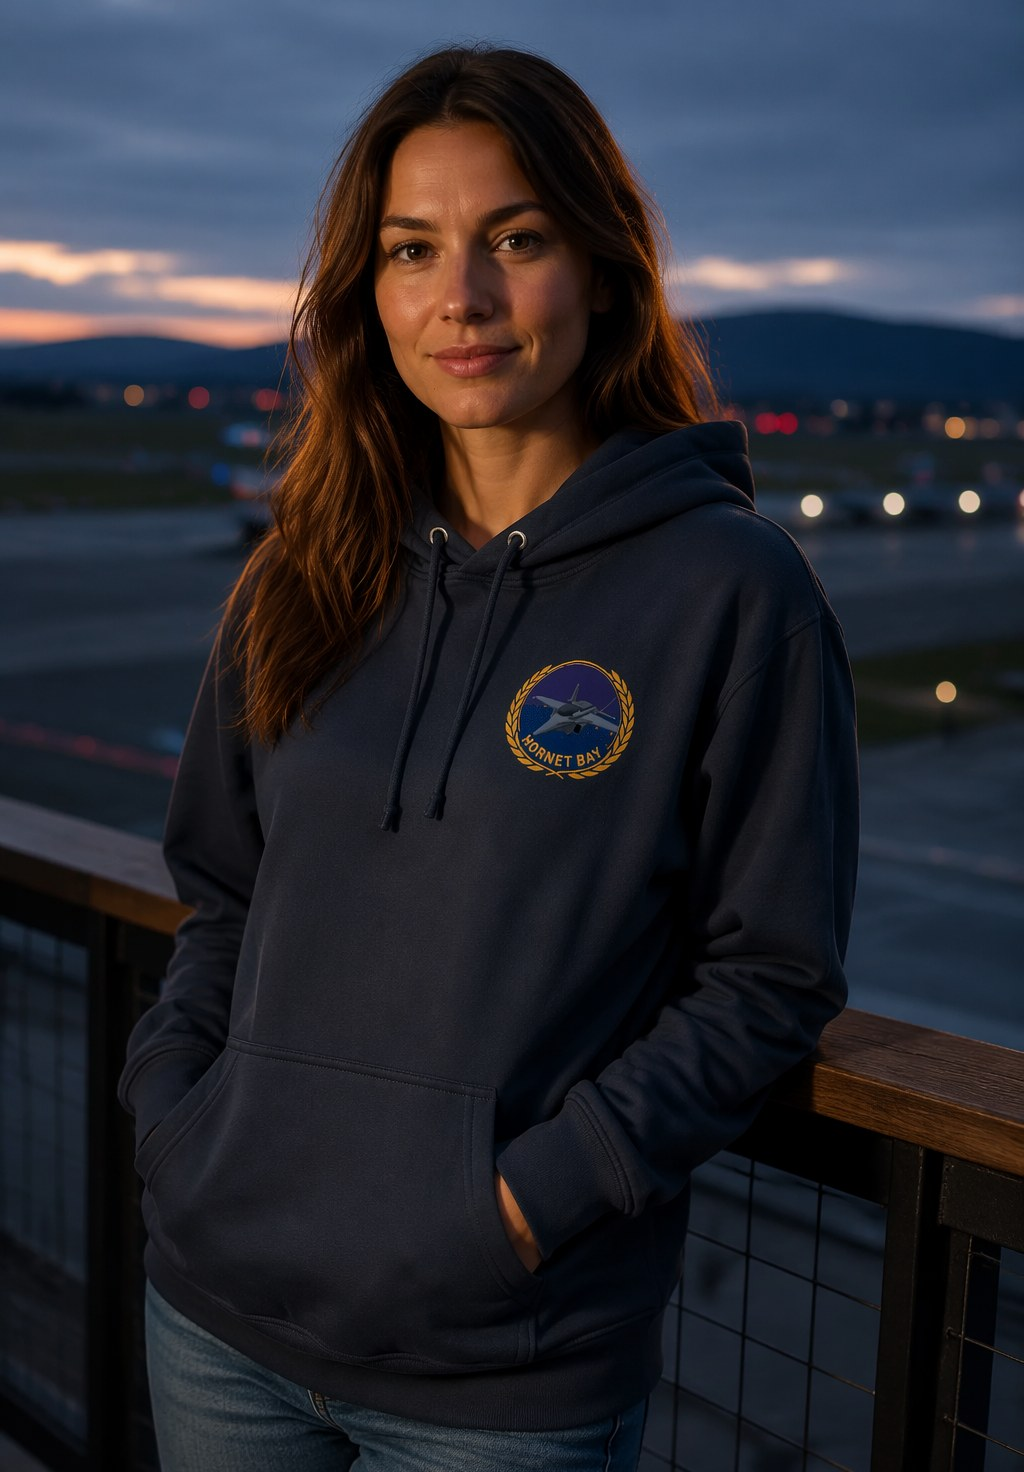
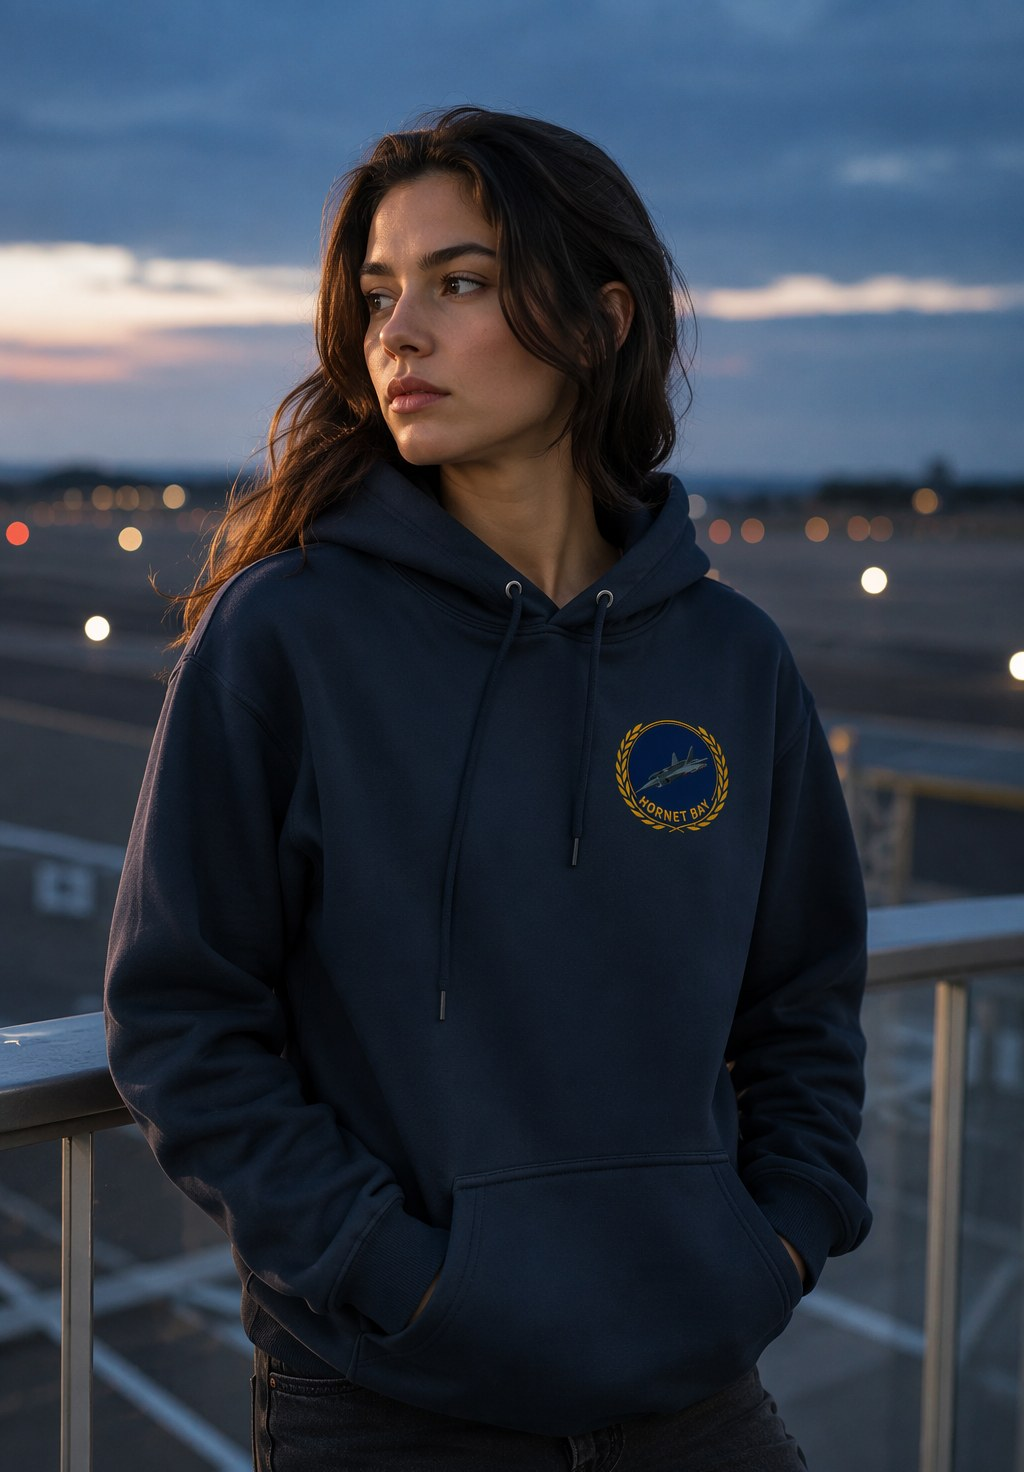
Whole-Hornet laurel merch swap + refreshed lookbook models + journal

diff --git a/blog/whole-hornet-merch/index.html b/blog/whole-hornet-merch/index.html
@@ -1,0 +1,134 @@
+<!DOCTYPE html>
+<html lang="en">
+<head>
+<meta charset="utf-8">
+<meta name="viewport" content="width=device-width, initial-scale=1">
+<title>The whole Hornet joins The Exchange — HORNET BAY</title>
+<meta name="description" content="Hot on the heels of the emblem rebuild: the whole-Hornet laurel is now flying on all four Squadron Laurel products at The Exchange — mug, kiss-cut…">
+<link rel="canonical" href="https://hornetbay.com/blog/whole-hornet-merch">
+<meta property="og:type" content="article">
+<meta property="og:site_name" content="Hornet Bay">
+<meta property="og:url" content="https://hornetbay.com/blog/whole-hornet-merch">
+<meta property="og:title" content="The whole Hornet joins The Exchange — HORNET BAY">
+<meta property="og:description" content="Hot on the heels of the emblem rebuild: the whole-Hornet laurel is now flying on all four Squadron Laurel products at The Exchange — mug, kiss-cut…">
+<meta property="og:image" content="https://hornetbay.com/shots/whole-hornet-laurel.png">
+<meta name="twitter:card" content="summary_large_image">
+<meta name="twitter:site" content="@hornetbay">
+<meta name="twitter:title" content="The whole Hornet joins The Exchange — HORNET BAY">
+<meta name="twitter:description" content="Hot on the heels of the emblem rebuild: the whole-Hornet laurel is now flying on all four Squadron Laurel products at The Exchange — mug, kiss-cut…">
+<meta name="twitter:image" content="https://hornetbay.com/shots/whole-hornet-laurel.png">
+<link rel="alternate" type="application/rss+xml" title="Hornet Bay — New Features &amp; Bug Fixes" href="https://hornetbay.com/rss.xml">
+<style>
+  :root {
+    --amber: #ffb437;
+    --amber-hi: #ffd75e;
+    --ink: #c8d4e8;
+    --ink-dim: #7f90b0;
+    --link: #5f86b8;
+    --line: #26355a;
+    --card: #0d1428;
+  }
+  * { box-sizing: border-box; margin: 0; padding: 0; }
+  body {
+    background: #070b18;
+    color: var(--ink);
+    font-family: "Courier New", ui-monospace, monospace;
+    line-height: 1.55;
+    padding: 0 16px 64px;
+  }
+  a { color: var(--link); text-decoration: none; }
+  a:hover { color: var(--amber); }
+  header {
+    max-width: 860px; margin: 0 auto; padding: 36px 0 8px;
+    border-bottom: 2px solid var(--line);
+  }
+  .brand { font-size: 30px; font-weight: bold; letter-spacing: 3px; color: #fff; }
+  .brand span { color: var(--amber); }
+  .kicker {
+    margin-top: 6px; font-size: 12px; letter-spacing: 4px; color: var(--amber);
+    text-shadow: 0 0 10px #7a3800;
+  }
+  .blurb { margin: 14px 0 10px; font-size: 13px; color: var(--ink-dim); }
+  .back { display: inline-block; margin: 6px 0 14px; font-size: 12px; letter-spacing: 2px; }
+  main { max-width: 860px; margin: 0 auto; }
+  article {
+    border-bottom: 1px solid var(--line);
+    padding: 28px 0;
+  }
+  .date {
+    font-size: 12px; letter-spacing: 2px; color: var(--ink-dim);
+  }
+  h2 {
+    margin: 4px 0 10px; font-size: 23px; letter-spacing: 1px; color: var(--amber-hi);
+  }
+  .shot {
+    display: block; margin: 12px 0; border: 1px solid var(--line);
+    background: var(--card);
+  }
+  .shot img { display: block; width: 100%; height: auto; image-rendering: auto; }
+  p { font-size: 16.5px; max-width: 100%; }
+  .hash {
+    display: inline-block; margin-left: 8px; font-size: 11px; color: var(--ink-dim);
+    border: 1px solid var(--line); padding: 0 6px; vertical-align: 2px;
+  }
+
+  .meta { display: flex; align-items: center; gap: 10px; flex-wrap: wrap; }
+  .meta time { font-size: 12px; letter-spacing: 2px; color: var(--ink-dim); }
+  .tags { display: inline-flex; gap: 6px; }
+  .tag {
+    font-size: 10px; letter-spacing: 1px; color: var(--amber);
+    border: 1px solid #7a5a20; padding: 0 5px; border-radius: 2px;
+  }
+  h2 a.title-link { color: inherit; text-decoration: none; }
+  h2 a.title-link:hover { color: var(--amber); }
+  h2 a.title-link::after { content: " \1F517"; font-size: 12px; opacity: 0; transition: opacity .15s; }
+  h2 a.title-link:hover::after { opacity: 0.8; }
+  article:target { background: #101a30; outline: 1px solid #2a3a5f; padding: 18px 14px; margin: 0 -14px; }
+  .rss-link { float: right; font-size: 11px; letter-spacing: 2px; }
+  footer {
+    max-width: 860px; margin: 28px auto 0; font-size: 12px; color: var(--ink-dim);
+    letter-spacing: 1px;
+  }
+</style>
+<script type="application/ld+json">
+{
+  "@context": "https://schema.org",
+  "@type": "BlogPosting",
+  "headline": "The whole Hornet joins The Exchange PENDING",
+  "datePublished": "2026-07-25",
+  "url": "https://hornetbay.com/blog/whole-hornet-merch",
+  "wordCount": 47,
+  "author": {
+    "@type": "Organization",
+    "name": "Hornet Bay",
+    "url": "https://hornetbay.com"
+  },
+  "image": "https://hornetbay.com/shots/whole-hornet-laurel.png",
+  "isPartOf": {
+    "@type": "Blog",
+    "name": "Hornet Bay \u2014 New Features & Bug Fixes",
+    "url": "https://hornetbay.com/blog"
+  }
+}
+</script>
+</head>
+<body>
+<header>
+  <div class="brand">HORNET <span>BAY</span></div>
+  <div class="kicker">NEW FEATURES &amp; BUG FIXES</div>
+  <a class="back" href="/blog">&larr; ALL ENTRIES</a>
+</header>
+<main>
+<article id="whole-hornet-merch">
+    <div class="meta"><time datetime="2026-07-25">2026-07-25</time><span class="tags"><span class="tag">FEATURE</span><span class="tag">BRAND</span></span></div>
+    <h2><a class="title-link" href="/blog/whole-hornet-merch">The whole Hornet joins The Exchange</a> <span class="hash">PENDING</span></h2>
+    <a class="shot" href="/shots/whole-hornet-laurel.png"><img src="/shots/whole-hornet-laurel.png" alt="The Squadron Laurel roundel with the complete Hornet, as printed on the Exchange collection" loading="lazy"></a>
+    <p>Hot on the heels of the emblem rebuild: the whole-Hornet laurel is now flying on all four Squadron Laurel products at <a href="/store">The Exchange</a> &mdash; mug, kiss-cut sticker, left-chest tee, and left-chest hoodie. The clipped-nose editions have been retired to the archives; same prices, same placements, complete airframe.</p>
+    <p>The lookbook got a fresh sitting too &mdash; new concept photography for the tee and the hoodie, roundel on the left chest where a patch belongs.</p>
+  </article>
+</main>
+<footer>
+  HORNET BAY &mdash; a tribute rebuild of the 1988 Amiga classic F/A-18 INTERCEPTOR &middot; <a href="/">FLY NOW</a> &middot; <a href="https://x.com/hornetbay" target="_blank" rel="noopener">@hornetbay</a> &middot; <a href="https://www.facebook.com/people/Hornet-Bay/61592078535997/" target="_blank" rel="noopener">FACEBOOK</a> &middot; <a href="https://www.instagram.com/hornet_bay/" target="_blank" rel="noopener">INSTAGRAM</a>
+</footer>
+</body>
+</html>

diff --git a/blog/index.html b/blog/index.html
@@ -100,6 +100,19 @@
   "blogPost": [
     {
       "@type": "BlogPosting",
+      "headline": "The whole Hornet joins The Exchange PENDING",
+      "datePublished": "2026-07-25",
+      "url": "https://hornetbay.com/blog/whole-hornet-merch",
+      "wordCount": 47,
+      "author": {
+        "@type": "Organization",
+        "name": "Hornet Bay",
+        "url": "https://hornetbay.com"
+      },
+      "image": "https://hornetbay.com/shots/whole-hornet-laurel.png"
+    },
+    {
+      "@type": "BlogPosting",
       "headline": "The whole Hornet 4c83f87",
       "datePublished": "2026-07-25",
       "url": "https://hornetbay.com/blog/whole-hornet-laurel",
@@ -862,6 +875,13 @@
   <a class="back" href="/">&larr; BACK TO THE COCKPIT</a>
 </header>
 <main>
+  <article id="whole-hornet-merch">
+    <div class="meta"><time datetime="2026-07-25">2026-07-25</time><span class="tags"><span class="tag">FEATURE</span><span class="tag">BRAND</span></span></div>
+    <h2><a class="title-link" href="/blog/whole-hornet-merch">The whole Hornet joins The Exchange</a> <span class="hash">PENDING</span></h2>
+    <a class="shot" href="/shots/whole-hornet-laurel.png"><img src="/shots/whole-hornet-laurel.png" alt="The Squadron Laurel roundel with the complete Hornet, as printed on the Exchange collection" loading="lazy"></a>
+    <p>Hot on the heels of the emblem rebuild: the whole-Hornet laurel is now flying on all four Squadron Laurel products at <a href="/store">The Exchange</a> &mdash; mug, kiss-cut sticker, left-chest tee, and left-chest hoodie. The clipped-nose editions have been retired to the archives; same prices, same placements, complete airframe.</p>
+    <p>The lookbook got a fresh sitting too &mdash; new concept photography for the tee and the hoodie, roundel on the left chest where a patch belongs.</p>
+  </article>
   <article id="whole-hornet-laurel">
     <div class="meta"><time datetime="2026-07-25">2026-07-25</time><span class="tags"><span class="tag">FEATURE</span><span class="tag">BRAND</span></span></div>
     <h2><a class="title-link" href="/blog/whole-hornet-laurel">The whole Hornet</a> <span class="hash">4c83f87</span></h2>
